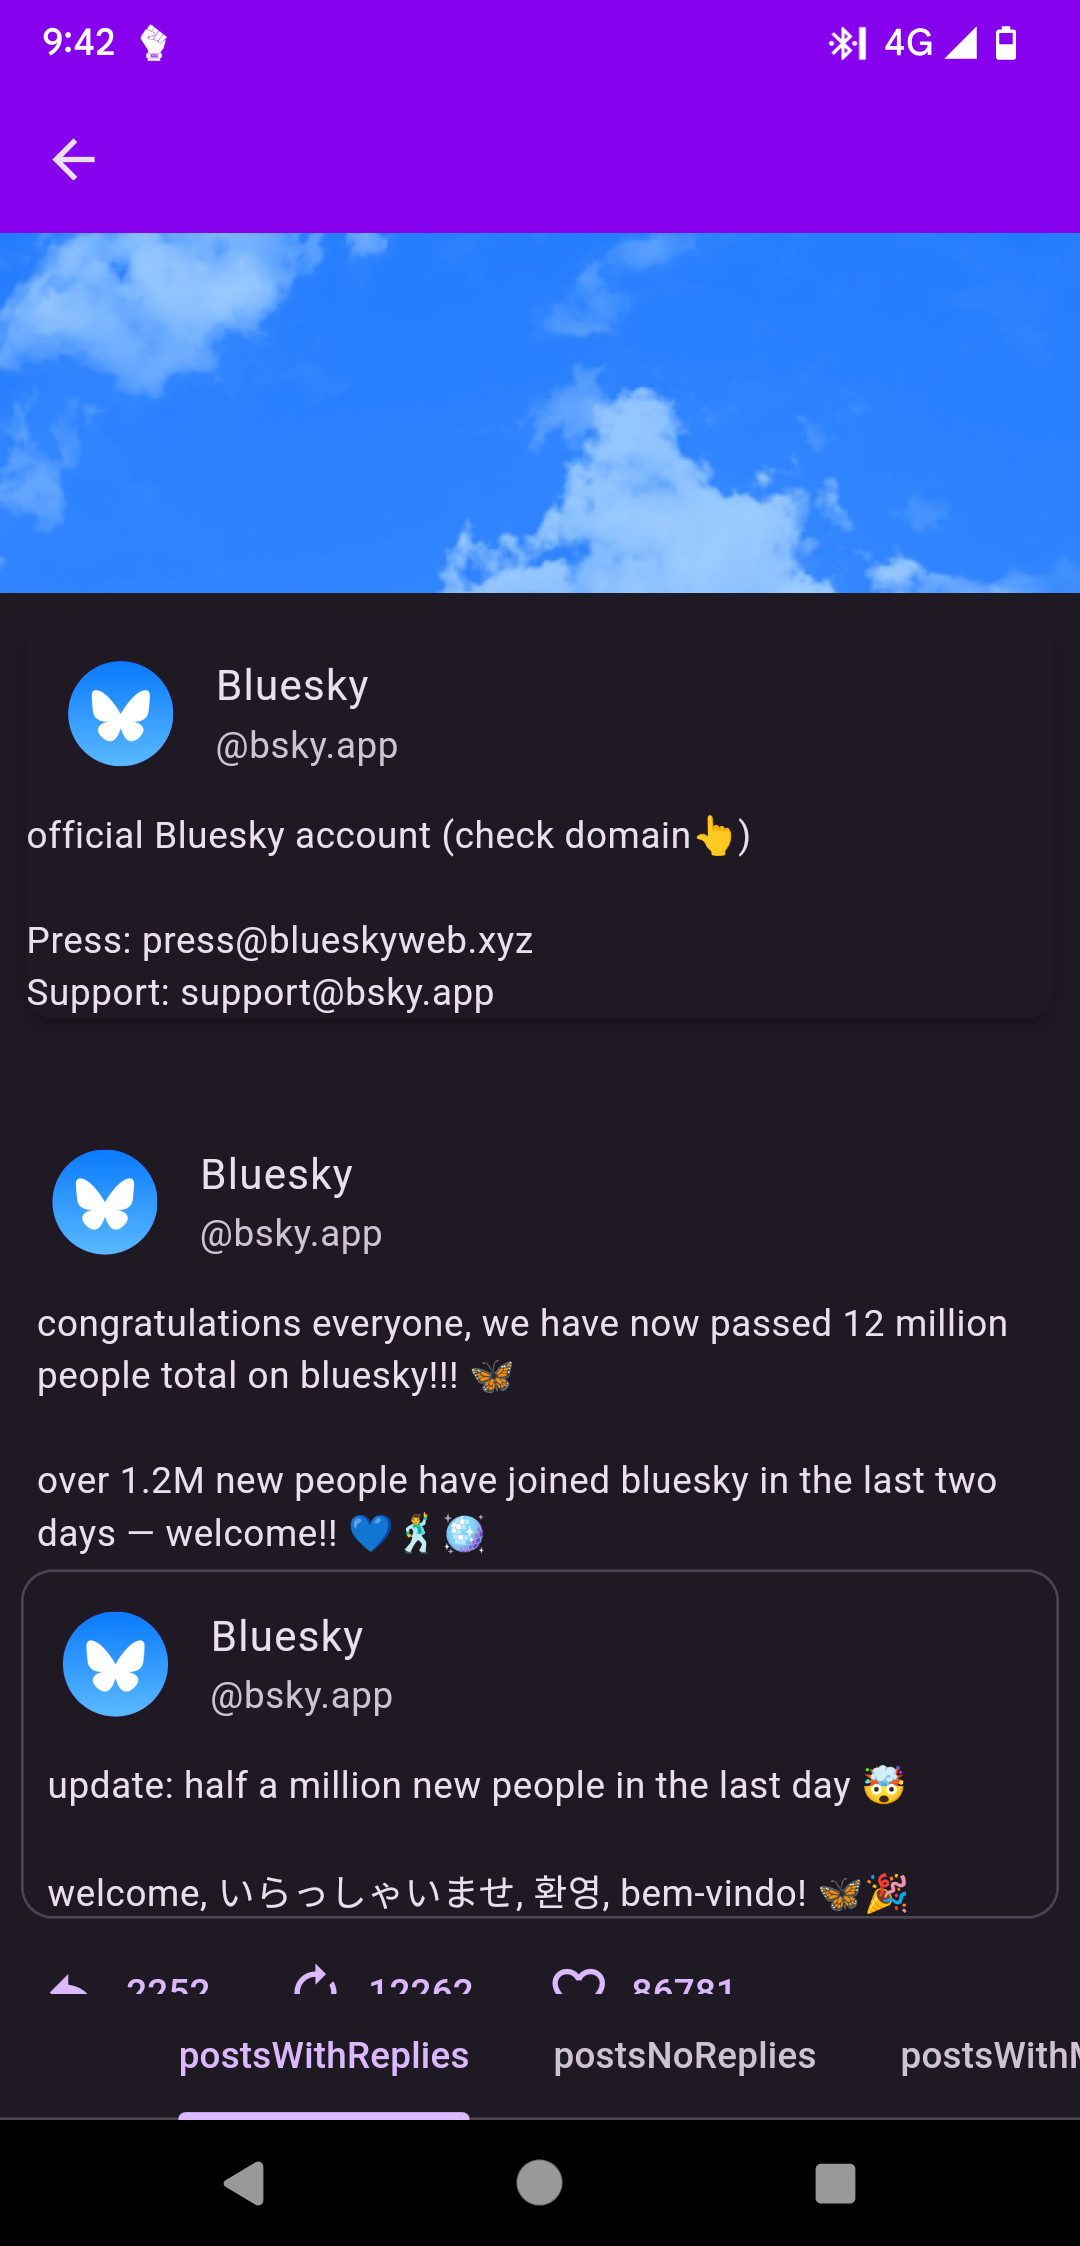
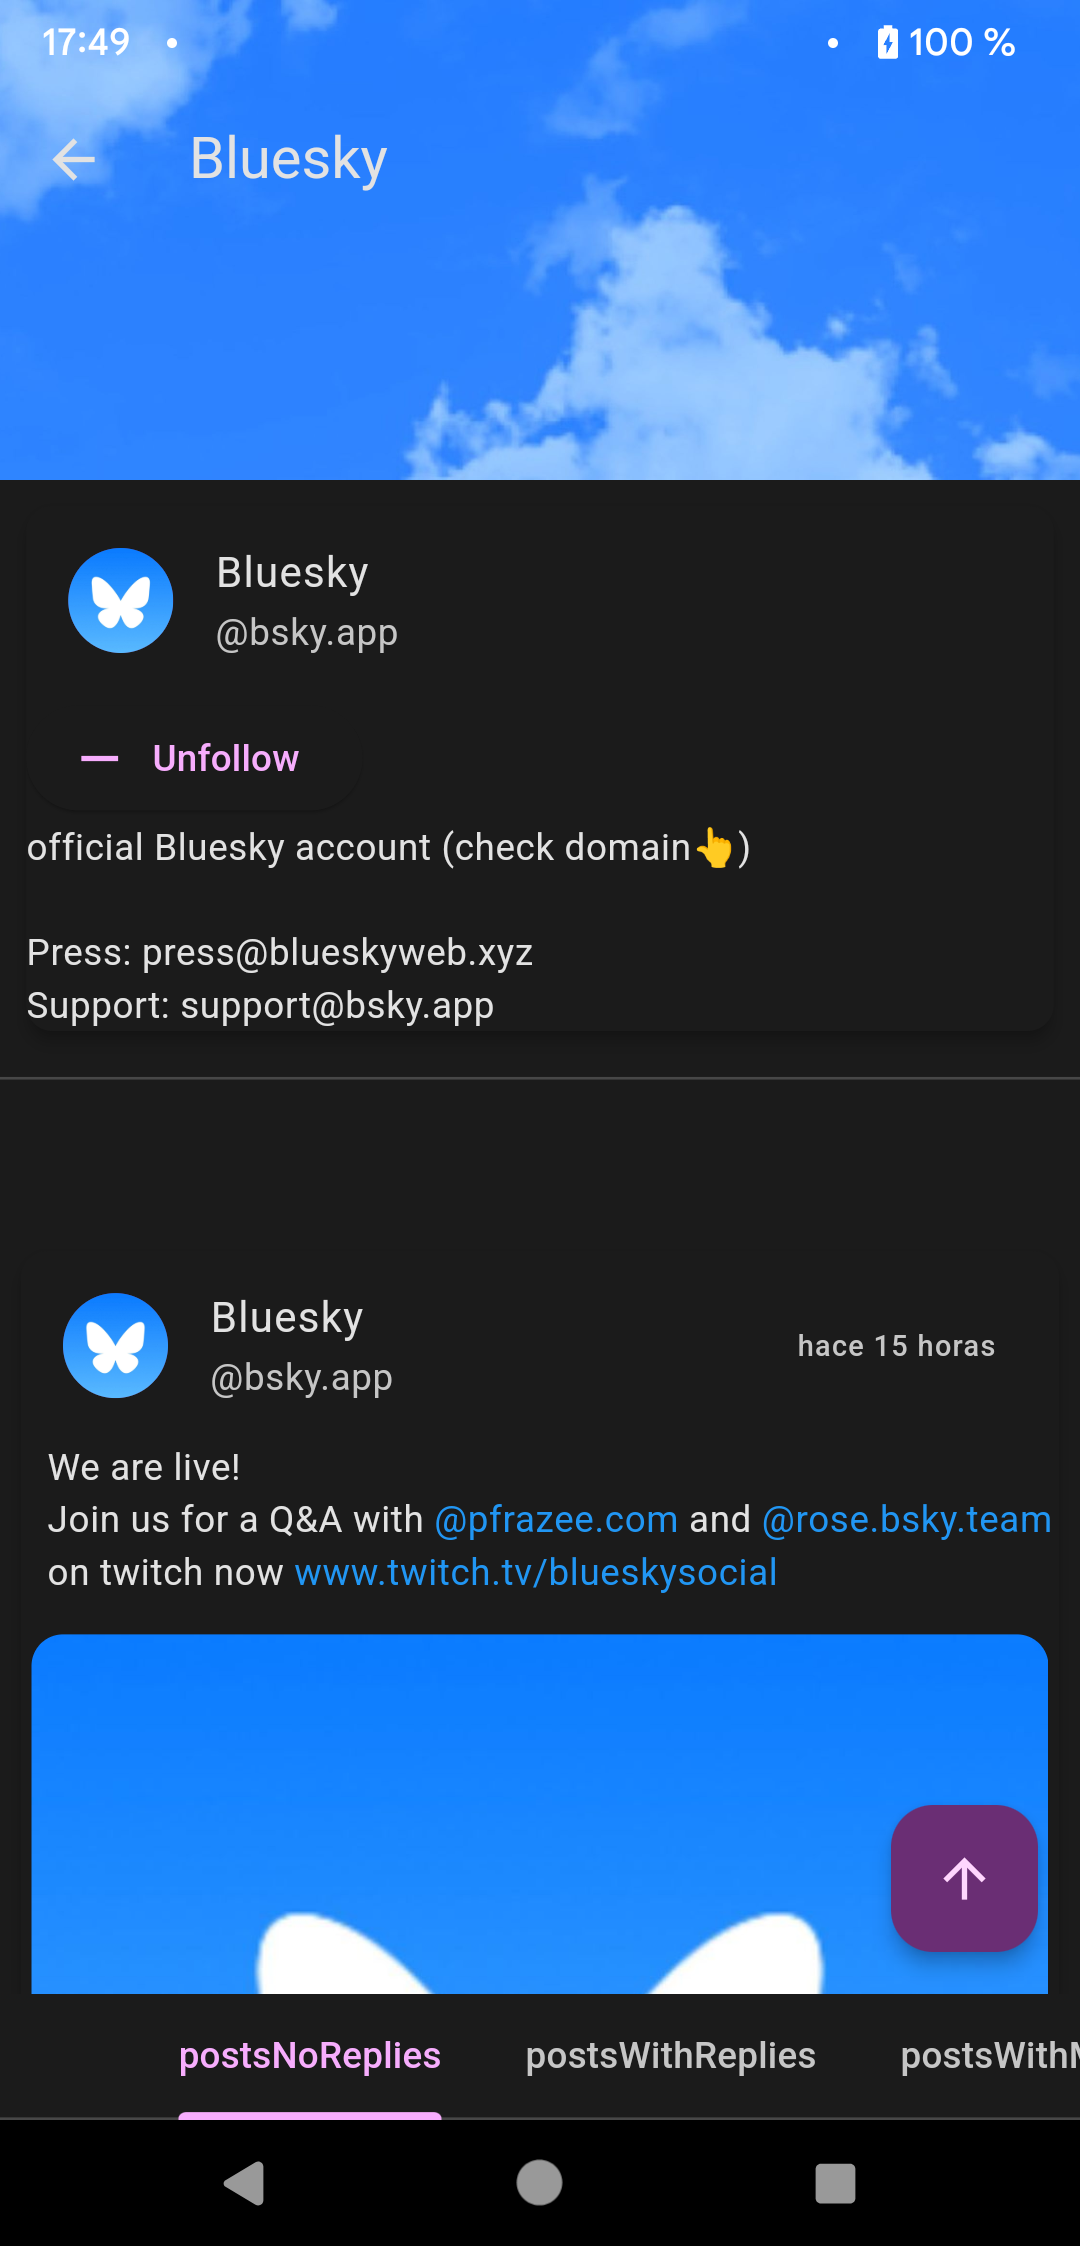
some translations and autorefresh token if expires while in app

diff --git a/lib/widgets/maindrawer.dart b/lib/widgets/maindrawer.dart
@@ -1,6 +1,7 @@
 import 'package:bluesky/atproto.dart';
 import 'package:flutter/material.dart';
 import 'package:lightbluesky/common.dart';
+import 'package:lightbluesky/constants/app.dart';
 import 'package:lightbluesky/helpers/ui.dart';
 import 'package:lightbluesky/pages/auth.dart';
 import 'package:lightbluesky/pages/feeds.dart';
@@ -30,7 +31,7 @@ class MainDrawer extends StatelessWidget {
             child: Column(
               children: [
                 const Expanded(
-                  child: Text('LightBluesky'),
+                  child: Text(App.name),
                 ),
                 TextButton.icon(
                   onPressed: () async {
@@ -45,7 +46,7 @@ class MainDrawer extends StatelessWidget {
                     );
                   },
                   icon: const Icon(Icons.info),
-                  label: Text("About"),
+                  label: Text(locale.drawer_about),
                 ),
               ],
             ),
@@ -97,7 +98,7 @@ class MainDrawer extends StatelessWidget {
           // SETTINGS
           ListTile(
             leading: const Icon(Icons.settings),
-            title: const Text('Settings'),
+            title: Text(locale.drawer_settings),
             onTap: () {
               Ui.dialog(
                 context,
@@ -106,17 +107,18 @@ class MainDrawer extends StatelessWidget {
               );
             },
           ),
-          // Source code
+          // SOURCE CODE
           ListTile(
             leading: const Icon(Icons.code),
-            title: const Text('Source'),
+            title: Text(locale.drawer_source),
             onTap: () {
-              Ui.openUrl('https://github.com/pablouser1/LightBluesky');
+              Ui.openUrl(App.source);
             },
           ),
           ExpansionTile(
             title: Text(api.c.session!.handle),
             children: [
+              // PROFILE
               ListTile(
                 leading: const Icon(Icons.person),
                 title: Text(locale.drawer_my_profile),
@@ -127,6 +129,7 @@ class MainDrawer extends StatelessWidget {
                   );
                 },
               ),
+              // LOGOUT
               ListTile(
                 leading: const Icon(Icons.logout),
                 title: Text(locale.drawer_logout),

diff --git a/lib/helpers/skyapi.dart b/lib/helpers/skyapi.dart
@@ -1,7 +1,11 @@
+import 'dart:async';
+
 import 'package:bluesky/app_bsky_embed_video.dart';
+import 'package:bluesky/atproto.dart';
 import 'package:bluesky/bluesky.dart';
 import 'package:bluesky/core.dart';
 import 'package:file_picker/file_picker.dart';
+import 'package:lightbluesky/common.dart';
 
 /// Helper class for specific bluesky API functions
 class SkyApi {
@@ -13,6 +17,35 @@ class SkyApi {
   List<ContentLabelPreference> contentLabels = List.empty(
     growable: true,
   );
+
+  Timer? _refreshTimer;
+
+  /// Set session for Bluesky
+  void setSession(Session? newSession) {
+    if (_refreshTimer != null) {
+      _refreshTimer!.cancel();
+    }
+
+    if (newSession == null) {
+      c = Bluesky.anonymous();
+      return;
+    }
+
+    c = Bluesky.fromSession(newSession);
+
+    // Setup new timer
+    final expiresIn =
+        newSession.accessToken.expiresAt.difference(DateTime.now());
+
+    _refreshTimer = Timer(expiresIn, () async {
+      final refreshedSession = await refreshSession(
+        refreshJwt: c.session!.refreshJwt,
+      );
+
+      storage.session.set(refreshedSession.data);
+      setSession(refreshedSession.data);
+    });
+  }
 
   /// Remove items that are from users that are blocked or muted
   List<FeedView> filterFeed(List<FeedView> items) {
@@ -68,15 +101,6 @@ class SkyApi {
     }
 
     return embed;
-  }
-
-  /// Set session for Bluesky
-  void setSession(Session? newSession) {
-    if (newSession == null) {
-      c = Bluesky.anonymous();
-      return;
-    }
-    c = Bluesky.fromSession(newSession);
   }
 
   /// Save user preferences

diff --git a/lib/main.dart b/lib/main.dart
@@ -3,10 +3,10 @@ import 'package:bluesky/core.dart';
 import 'package:dynamic_color/dynamic_color.dart';
 import 'package:flutter/material.dart';
 import 'package:lightbluesky/common.dart';
+import 'package:lightbluesky/constants/app.dart';
 import 'package:lightbluesky/pages/auth.dart';
 import 'package:lightbluesky/pages/home.dart';
 import 'package:video_player_media_kit/video_player_media_kit.dart';
-import 'package:flutter_localizations/flutter_localizations.dart';
 import 'package:flutter_gen/gen_l10n/app_localizations.dart';
 
 void main() {
@@ -72,12 +72,8 @@ class _MyAppState extends State<MyApp> {
     return DynamicColorBuilder(
       builder: (lightColorScheme, darkColorScheme) {
         return MaterialApp(
-          title: 'LightBluesky',
-          localizationsDelegates: const [
-            AppLocalizations.delegate,
-            GlobalMaterialLocalizations.delegate,
-            GlobalWidgetsLocalizations.delegate,
-          ],
+          title: App.name,
+          localizationsDelegates: AppLocalizations.localizationsDelegates,
           supportedLocales: AppLocalizations.supportedLocales,
           theme: ThemeData(
             colorScheme: lightColorScheme ?? const ColorScheme.light(),

diff --git a/lib/constants/app.dart b/lib/constants/app.dart
@@ -1,0 +1,5 @@
+/// App metadata
+abstract class App {
+  static const name = "LightBluesky";
+  static const source = "https://github.com/pablouser1/LightBluesky";
+}

diff --git a/README.md b/README.md
@@ -5,7 +5,7 @@
 
 A Bluesky client made using Flutter, designed to be lightweight and easy to use.
 
-**WIP**: For now, this project is very barebones, don't expect a full client.
+**WIP**: The project is _usable_ but still being developed, expect some issues.
 
 ## Installation
 You will need flutter, it is tested for the `stable` version.
@@ -34,6 +34,9 @@ You will need `libmpv` for handling video playback.
   * Handle adult content
   * Sharing
   * Like / Repost
+* Translations
+  * English
+  * Spanish
 
 ## TODO
 * Group timeline posts
